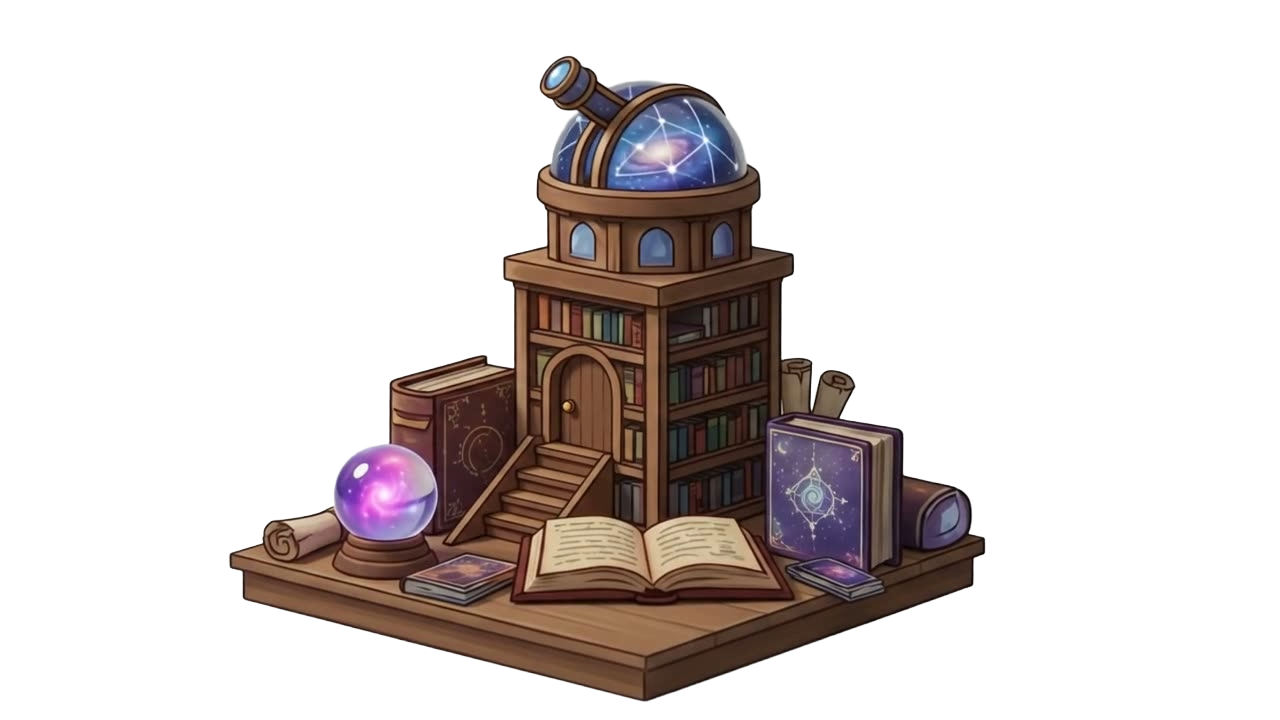
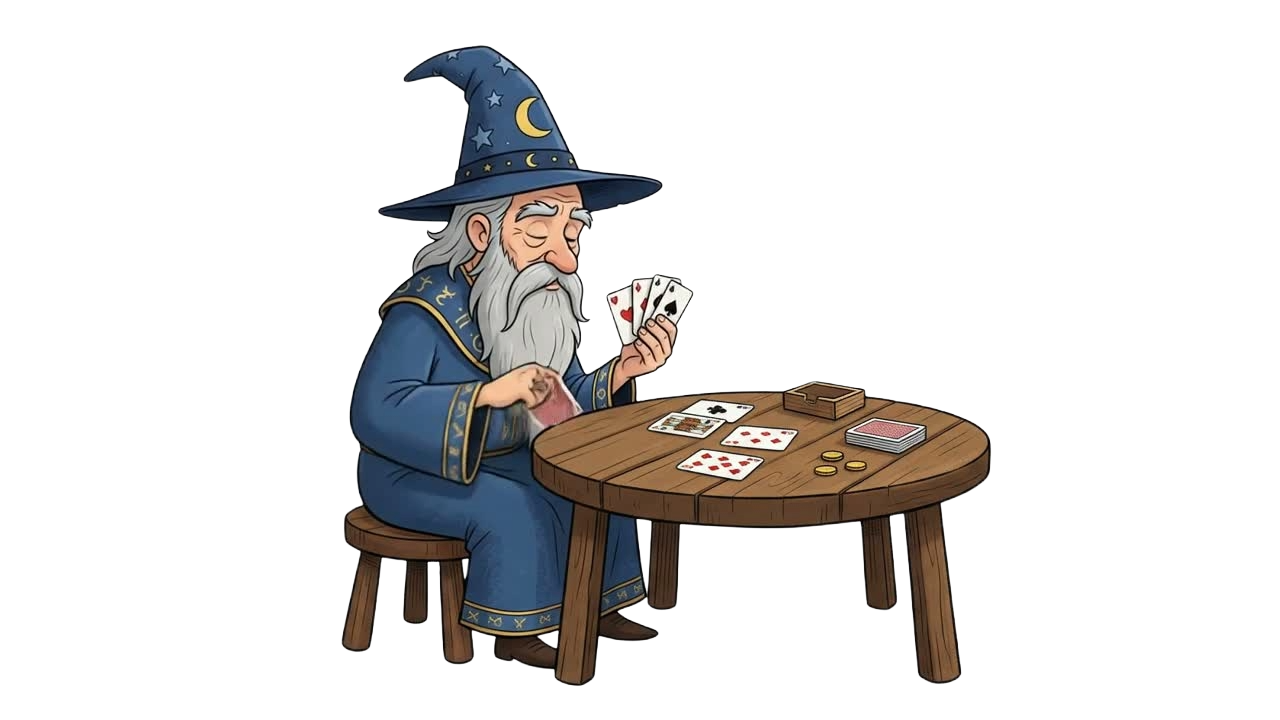
update home

diff --git a/components/ImgAnimation.vue b/components/ImgAnimation.vue
@@ -24,15 +24,15 @@ const props = defineProps({
         type: [String, Number],
         default: '300px' // Bạn có thể truyền: 300, "300px", "100%"...
     },
-    // Thêm prop chỉnh chiều cao
-    height: {
-        type: [String, Number],
-        default: '300px'
-    },
     // Thêm prop chỉnh cách hiển thị ảnh (cover, contain, fill...)
     objectFit: {
         type: String,
         default: 'cover'
+    },
+    // Thêm prop delay khi quay lại index 0
+    delay: {
+        type: Number,
+        default: 0
     }
 })
 
@@ -42,10 +42,9 @@ let timer = null
 // Tính toán Style cho Container
 const containerStyle = computed(() => {
     const w = typeof props.width === 'number' ? `${props.width}px` : props.width
-    const h = typeof props.height === 'number' ? `${props.height}px` : props.height
     return {
         width: w,
-        height: h
+        height: 'auto'
     }
 })
 
@@ -61,13 +60,28 @@ const imageStyle = computed(() => {
 const startAnimation = () => {
     stopAnimation()
     if (props.images.length <= 1) return
-    timer = setInterval(() => {
-        activeIndex.value = (activeIndex.value + 1) % props.images.length
-    }, props.interval)
+
+    const run = () => {
+        const nextIndex = (activeIndex.value + 1) % props.images.length
+        let wait = props.interval
+
+        // Nếu quay lại index 0 và có delay thì cộng thêm vào wait
+        if (nextIndex === 0 && props.delay > 0) {
+            wait += props.delay
+        }
+
+        activeIndex.value = nextIndex
+        timer = setTimeout(run, wait)
+    }
+
+    timer = setTimeout(run, props.interval)
 }
 
 const stopAnimation = () => {
-    if (timer) clearInterval(timer)
+    if (timer) {
+        clearTimeout(timer)
+        timer = null
+    }
 }
 
 onMounted(() => startAnimation())

diff --git a/pages/home/index.vue b/pages/home/index.vue
@@ -15,13 +15,18 @@
       <div class="cloud cloud-fast"></div>
     </div>
 
-    <ImgAnimation className="chuaGoMo" :images="gomoAnim" :width="270" :height="270" :interval="500" />
+    <div class="chuaGoMo">
+      <ImgAnimation :images="gomoAnim" :width="500" :interval="300" :delay="500" />
+    </div>
 
-    <!-- <ImgAnimation className="huyenHoc" :images="huyenHocAnim" :width="200" :height="200" :interval="2000" /> -->
+    <div class="huyenHoc">
+      <ImgAnimation :images="huyenHocAnim" :width="200" :interval="300" :delay="2000" />
+    </div>
 
-    <ImgAnimation className="tienIch" :images="tienIchAnim" :width="300" :height="200" :interval="500" />
 
-
+    <div class="tienIch">
+      <ImgAnimation :images="tienIchAnim" :width="350" :interval="300" :delay="1000" />
+    </div>
 
     <div class="land-layer"></div>
   </div>
@@ -58,6 +63,13 @@ const huyenHocAnim = ref([
   '/home/anim/huyenHoc/image_1.jpg',
   '/home/anim/huyenHoc/image_2.jpg',
   '/home/anim/huyenHoc/image_3.jpg',
+  '/home/anim/huyenHoc/image_4.jpg',
+  '/home/anim/huyenHoc/image_5.jpg',
+  '/home/anim/huyenHoc/image_6.jpg',
+  '/home/anim/huyenHoc/image_7.jpg',
+  '/home/anim/huyenHoc/image_8.jpg',
+  '/home/anim/huyenHoc/image_9.jpg',
+  '/home/anim/huyenHoc/image_10.jpg',
 ]);
 
 

diff --git a/pages/home/index.css b/pages/home/index.css
@@ -99,16 +99,16 @@
 .chuaGoMo {
   position: absolute;
   z-index: 999;
-  left: calc((100vw - 200px) / 2);
-  top: 20vh;
+  left: calc((100vw - 800px) / 2);
+  top: 44vh;
   pointer-events: none;
 }
 
 .huyenHoc {
   position: absolute;
   z-index: 999;
-  left: calc((160vw - 300px) / 2);
-  top: 22vh;
+  left: calc((50vw - 500px) / 2);
+  top: 25vh;
 }
 
 .tienIch {